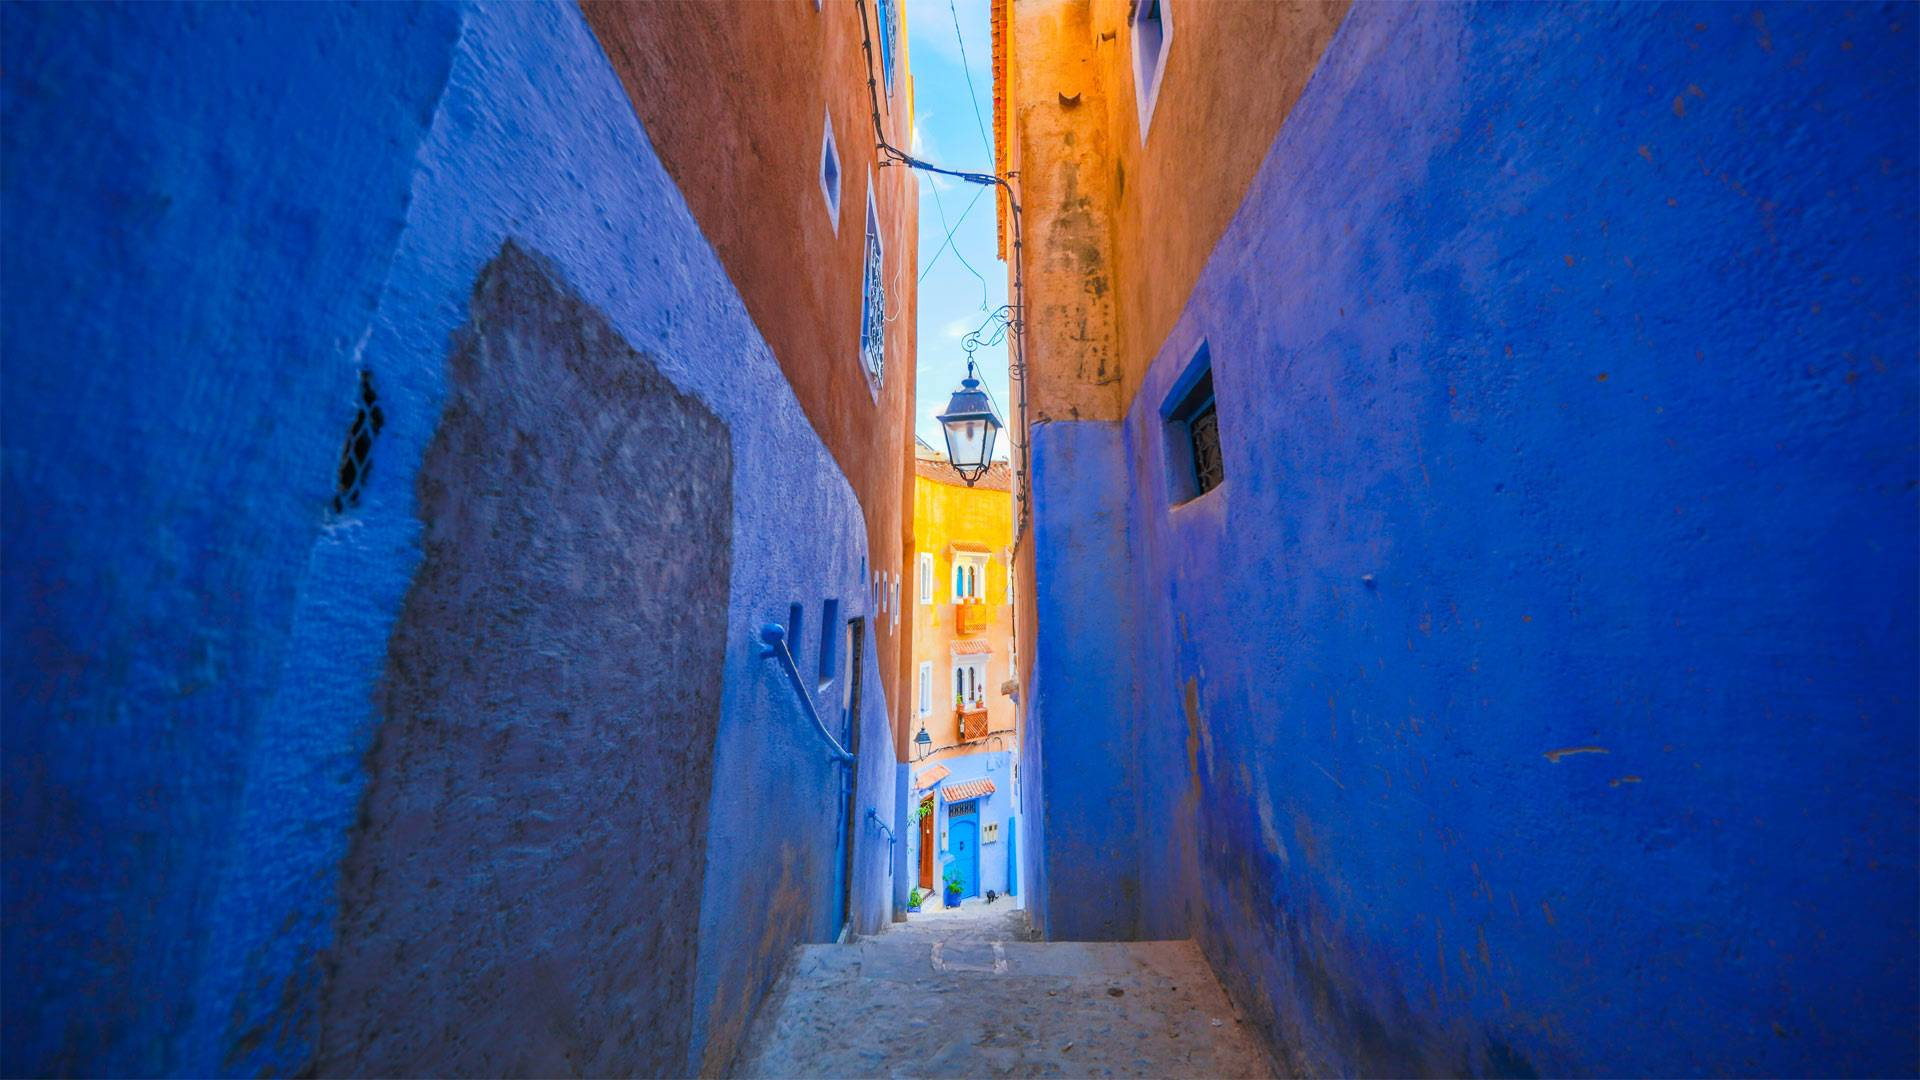
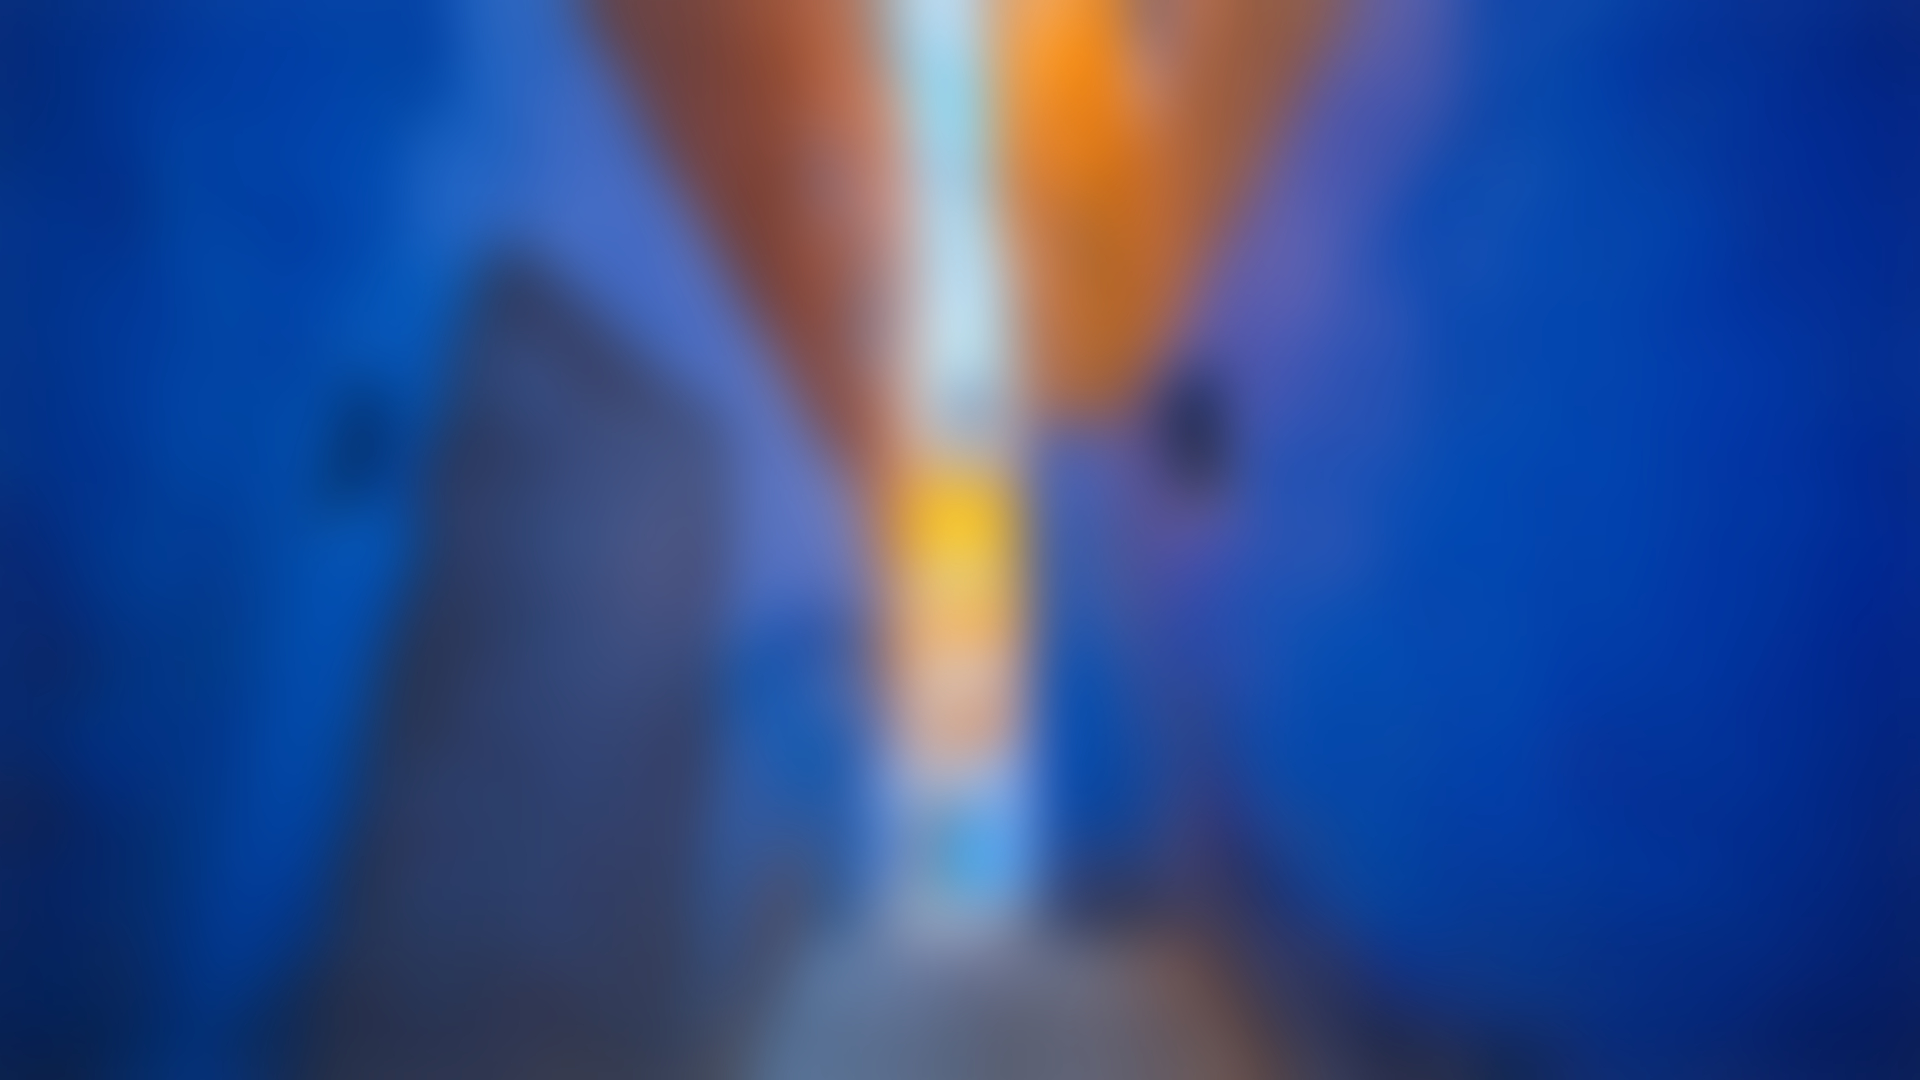
增加登录页面

diff --git a/login.html b/login.html
@@ -1,0 +1,30 @@
+<!DOCTYPE html>
+<html>
+
+<head>
+    <title>登录南糖用户中心</title>
+    <!--link rel="stylesheet" href="https://cdn.jsdelivr.net/npm/uikit@3.2.2/dist/css/uikit.min.css" /-->
+    <link rel="stylesheet" href="./css/uikit.css" />
+    <link rel="stylesheet" href="./css/my.css" />
+	<script src="https://cdn.jsdelivr.net/npm/uikit@3.2.2/dist/js/uikit.min.js"></script>
+    <script src="https://cdn.jsdelivr.net/npm/uikit@3.2.2/dist/js/uikit-icons.min.js"></script>
+    <script src="./js/my.js"></script>
+    
+    <meta charset="utf-8">
+</head>
+
+<body class="cover">
+    <div class="uk-child-width-expand" uk-height-viewport="expand: true"style="background-color: rgba(200,200,200,0.2);">
+        <div class="my-card my-card-blur my-card-body my-middle" style="background-color: rgba(255, 255, 255, 0.432);border-radius: 1em;">
+            <h1 class="uk-margin-medium"style="color: rgba(100, 100, 100, 0.6);text-align: center">欢迎</h1>
+            <div class="my-card my-card-boder "style="background-color: rgba(255, 255, 255, 0.6);">
+                <h4>用户名</h4>
+                <input class="uk-input" type="text" placeholder="输入游戏名">
+                <h4>密码</h4>
+                <input class="uk-input" type="text" placeholder="输入密码">
+                <button class="uk-margin-large-top uk-width-expand uk-button uk-button-primary">登入</button>
+                
+            </div>
+        </div>
+    </div>
+</body>

diff --git a/module/announce.html b/module/announce.html
@@ -10,20 +10,15 @@
     <script src="https://cdn.jsdelivr.net/npm/uikit@3.2.2/dist/js/uikit.min.js"></script>
     <script src="https://cdn.jsdelivr.net/npm/uikit@3.2.2/dist/js/uikit-icons.min.js"></script>
     <meta charset="utf-8">
-    <style>
-        body{
-            background-color:rgb(245, 245, 245);
-        }
-    </style>
 </head>
 
 <body>
     
-    <div class="uk-child-width-auto uk-margin-auto uk-grid-small"  uk-grid >
+    <div class="uk-child-width-auto uk-margin-auto uk-grid-small cover" uk-height-viewport="expand: true" uk-grid style="background-color:rgb(245, 245, 245);">
 
         <!--左边-->
-        <div class="uk-width-3-5 my-card my-card-blur" style="margin-left: 30px">
-            <div class="uk-width-expand ">
+        <div class="uk-width-3-5 my-card my-card-blur" uk-height-viewport="expand: true" style="margin-left: 30px">
+            <div class="uk-width-expand " >
                 <h1 class="uk-margin-small-top">公告
                     <small style="color: #666666; font-size: medium">Announcement</small>
                     <button class="uk-button uk-button-default-not uk-button-small" title="添加公告" style="float:right;vertical-align:middle;">

diff --git a/css/my.css b/css/my.css
@@ -16,8 +16,8 @@
 }
 
 .my-card-boder{
-    border-top: 1px solid rgba(255, 255, 255, 0.712);
-    border-left: 1px solid rgba(255, 255, 255, 0.712);
+    border-top: 1.5px solid rgba(255, 255, 255, 0.3);
+    border-left: 1.5px solid rgba(255, 255, 255, 0.3);
 }
 .my-card-round{
     border-radius: 1em;
@@ -27,4 +27,26 @@
 }
 .my-bodycard{
     padding: 10px 10px;
+}
+
+.cover{
+        background:transparent url(../res/bg.jpg);
+        background-size:cover;
+        
+}
+
+.my-middle{
+    position: absolute;
+    top: 50%;
+    left: 50%;
+    margin-left: -190px;
+    margin-top: -270px;
+    width: 380px;
+    height: 540px;
+}
+
+.my-buttom{
+    background-color: transparent;
+    color: #333;
+    border: 1px solid #e5e5e5;
 }

diff --git a/css/uikit.css b/css/uikit.css
@@ -1462,9 +1462,9 @@ button.uk-icon:not(:disabled) {
   border: 0 none;
   /* 4 */
   padding: 0 10px;
-  background: #fff;
+  background: rgba(255, 255, 255, 0.37);
   color: #666;
-  border: 1px solid #e5e5e5;
+  border: 1.5px solid #ffffff4f;
   transition: 0.2s ease-in-out;
   transition-property: color, background-color, border;
 }
@@ -1509,7 +1509,7 @@ button.uk-icon:not(:disabled) {
 .uk-input:disabled,
 .uk-select:disabled,
 .uk-textarea:disabled {
-  background-color: #f8f8f8;
+  background-color: #f0f0f0;
   color: #999;
   border-color: #e5e5e5;
 }
